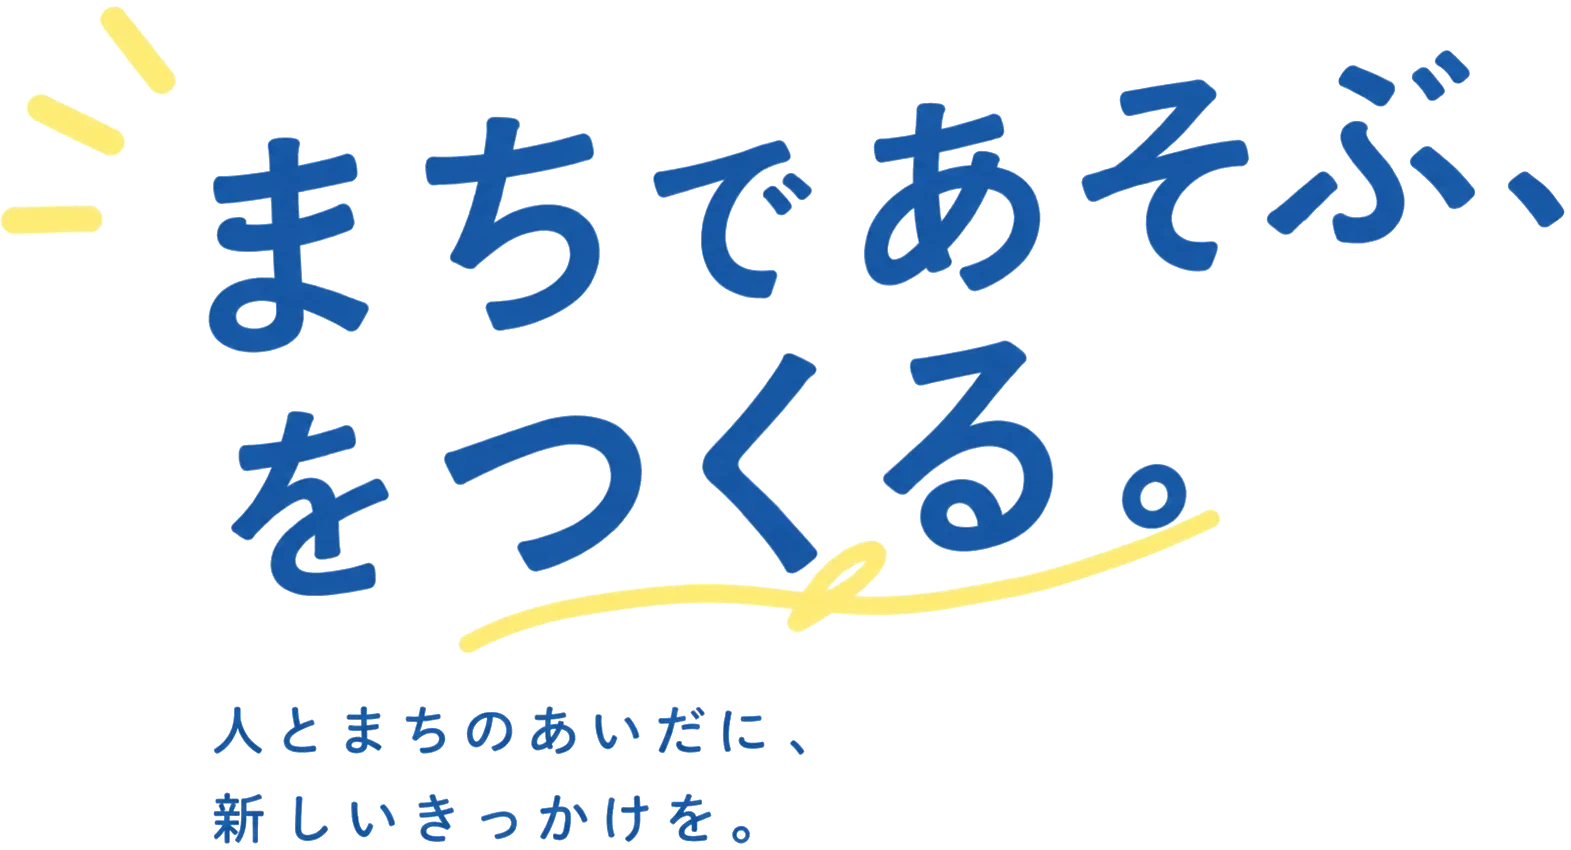
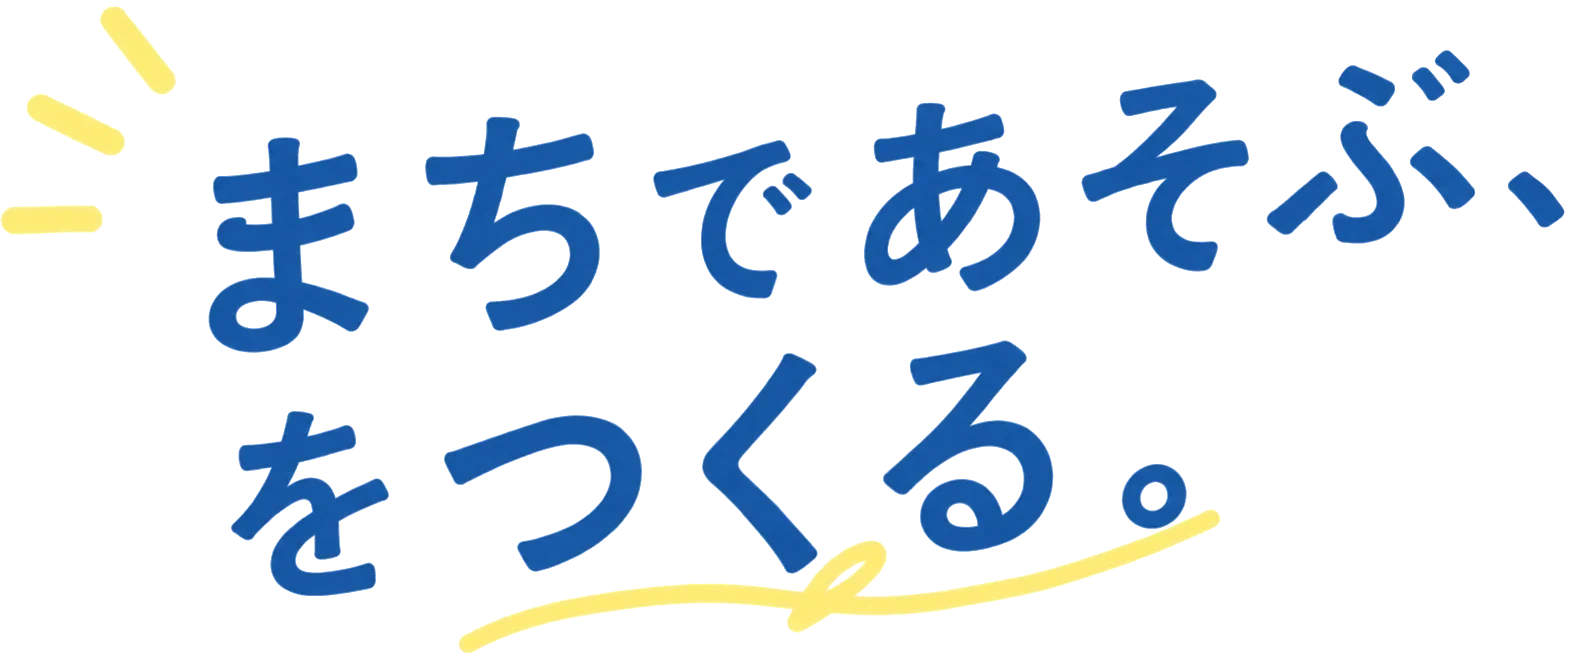
Place the tagline on its own
Split the lettering so the tagline can sit clear of the school roof.

diff --git a/top-c/index.html b/top-c/index.html
@@ -84,6 +84,8 @@ a{color:inherit}
   height:clamp(42px,6.2vw,104px);display:block;z-index:1}
 .hero-ttl{position:absolute;left:5.6%;top:8%;z-index:2;width:clamp(290px,34vw,580px)}
 .hero-ttl h1{margin:0;line-height:0}
+/* キャッチコピーは別の画像。左右・上下の位置はここで決める */
+.hero-tag{position:relative;margin:2.6% 0 0 40%;width:37.7%;line-height:0}
 /* 文字のまわりに、うすい白のもや */
 .hero-ttl::before{content:"";position:absolute;z-index:-1;pointer-events:none;
   left:-19%;right:-15%;top:-24%;bottom:-18%;
@@ -353,10 +355,12 @@ footer{border-top:1px solid var(--line);margin-top:30px;padding:36px 0 56px;colo
     </svg>
     <div class="hero-ttl">
       <h1><picture>
-        <source media="(max-width:860px)" srcset="../assets/play-title-sp.webp?v=5">
-        <img src="../assets/play-title.webp?v=5" width="1571" height="850" fetchpriority="high"
-          alt="まちであそぶ、をつくる。 人とまちのあいだに、新しいきっかけを。">
+        <source media="(max-width:860px)" srcset="../assets/play-title-sp.webp?v=6">
+        <img src="../assets/play-title.webp?v=6" width="1571" height="660" fetchpriority="high"
+          alt="まちであそぶ、をつくる。">
       </picture></h1>
+      <p class="hero-tag"><img src="../assets/play-tagline.webp" width="604" height="150"
+        fetchpriority="high" alt="人とまちのあいだに、新しいきっかけを。"></p>
     </div>
     <a class="go hero-go" href="#acts">活動を見る　<span>→</span></a>
   </div>
